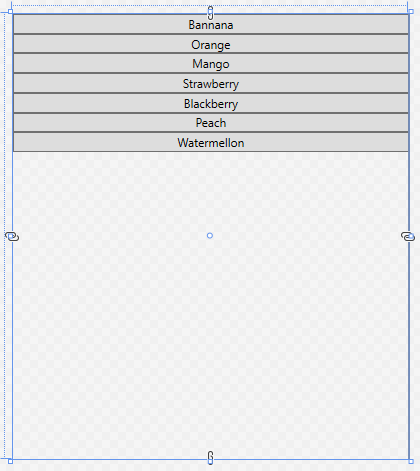
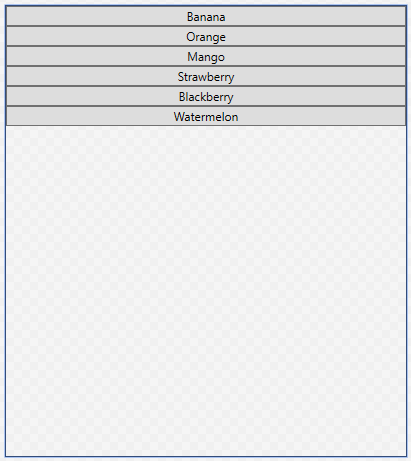
Numerous typo/formatting fixes

Changed region(s): [[0.0, 0.0, 0.9927, 1.0], [0.4964, 0.4859, 0.5255, 0.5163]]

diff --git a/content/2-desktop-development/01-wpf/05-controls.md b/content/2-desktop-development/01-wpf/05-controls.md
@@ -9,7 +9,7 @@ In addition to the layout controls, WPF provides a number of useful (and often f
 
 ### Border 
 
-A [`Border`](https://docs.microsoft.com/en-us/dotnet/api/system.windows.controls.border?view=netcore-3.1) is a control that draws a border around its contents.  The properties specific to a border include `BorderBrush` (which sets the color of the border, see the discussion of brushes on the next page), `BorderThickness` the number of units thick the border should be drawn, `CornerRadius`, which adds rounded corners, and `Padding` which adds space between the border and its contents.
+A [Border](https://docs.microsoft.com/en-us/dotnet/api/system.windows.controls.border?view=netcore-3.1) is a control that draws a border around its contents.  The properties specific to a border include `BorderBrush` (which sets the color of the border, see the discussion of brushes on the next page), `BorderThickness` the number of units thick the border should be drawn, `CornerRadius`, which adds rounded corners, and `Padding` which adds space between the border and its contents.
 
 ```xml
 <Border BorderBrush="Green" BorderThickness="5" CornerRadius="5" Padding="10">
@@ -21,7 +21,7 @@ A [`Border`](https://docs.microsoft.com/en-us/dotnet/api/system.windows.controls
 
 ### Button
 
-A [`Button`](https://docs.microsoft.com/en-us/dotnet/api/system.windows.controls.button?view=netcore-3.1) is a control that draws a button. This button can be interacted with by the mouse, and clicking on it triggers any `Click` event handlers that have been attached to it.  Unlike Windows Forms buttons, it can contain any other WPF control, including images and layouts.  Thus, a button featuring an image might be created with:
+A [Button](https://docs.microsoft.com/en-us/dotnet/api/system.windows.controls.button?view=netcore-3.1) is a control that draws a button. This button can be interacted with by the mouse, and clicking on it triggers any `Click` event handlers that have been attached to it.  Unlike Windows Forms buttons, it can contain any other WPF control, including images and layouts.  Thus, a button featuring an image might be created with:
 
 ```xml
 <Button Click="TriggerBroadcast">
@@ -51,7 +51,7 @@ We'll be discussing events in more detail soon.
 
 ### CheckBox
 
-A [`CheckBox`](https://docs.microsoft.com/en-us/dotnet/api/system.windows.controls.checkbox?view=netcore-3.1) provides a checkable box corresponding to a boolean value.  The `IsChecked` property reflects the checked or unchecked state of the checkbox.  A checkbox also exposes `Checked` and `Unchecked` event handlers.
+A [CheckBox](https://docs.microsoft.com/en-us/dotnet/api/system.windows.controls.checkbox?view=netcore-3.1) provides a checkable box corresponding to a boolean value.  The `IsChecked` property reflects the checked or unchecked state of the checkbox.  A checkbox also exposes `Checked` and `Unchecked` event handlers.
 
 ```xml
 <CheckBox IsChecked="True">
@@ -63,7 +63,7 @@ A [`CheckBox`](https://docs.microsoft.com/en-us/dotnet/api/system.windows.contro
 
 ### ComboBox
 
-A [`ComboBox`](https://docs.microsoft.com/en-us/dotnet/api/system.windows.controls.combobox?view=netcore-3.1) provides a drop-down selection list.  The selected value can be accessed through the `SelectedItem` property, and the `IsEditable` boolean property determines if the combo box can be typed into, or simply selected from.  It exposes a `SelectionChanged` event.  The items in the `ComboBox` can be set declaratively:
+A [ComboBox](https://docs.microsoft.com/en-us/dotnet/api/system.windows.controls.combobox?view=netcore-3.1) provides a drop-down selection list.  The selected value can be accessed through the `SelectedItem` property, and the `IsEditable` boolean property determines if the combo box can be typed into, or simply selected from.  It exposes a `SelectionChanged` event.  The items in the `ComboBox` can be set declaratively:
 
 ```xml
 <ComboBox>
@@ -111,7 +111,7 @@ We could also leverage _data binding_ to bind the item collection dynamically.  
 
 ### Image 
 
-The [`Image`](https://docs.microsoft.com/en-us/dotnet/api/system.windows.controls.image?view=netcore-3.1) control displays an image.  The image to display is determined by the `Source` property. If the image is not exactly the same size as the `<Image>` control, the `Stretch` property determines how to handle this case.  Its possible values are:
+The [Image](https://docs.microsoft.com/en-us/dotnet/api/system.windows.controls.image?view=netcore-3.1) control displays an image.  The image to display is determined by the `Source` property. If the image is not exactly the same size as the `<Image>` control, the `Stretch` property determines how to handle this case.  Its possible values are:
 * `"None"` (the default) - the image is displayed at its original size
 * `"Fill"` - the image is resized to the element's size.  This will result in stretching if the aspect ratios are not the same
 * `"Uniform"` - the image is resized to fit into the element.  If the aspect ratios are different, there will be blank areas in the element (letterboxing)
@@ -121,7 +121,7 @@ The stretch values effects are captured by this graphic:
 
 ![The applied Stretch property](/images/2.1.6.17.png)
 
-The stretching behavior can be further customized by the [`StretchDirection`](https://docs.microsoft.com/en-us/dotnet/api/system.windows.controls.stretchdirection?view=netcore-3.1) property.
+The stretching behavior can be further customized by the [StretchDirection](https://docs.microsoft.com/en-us/dotnet/api/system.windows.controls.stretchdirection?view=netcore-3.1) property.
 
 Images can also be used for `Background` or `Foreground` properties, as discussed on the next page.
 
@@ -152,7 +152,7 @@ Now when the program is running, the user can press `ALT + F` to shift focus to 
 
 ### ListBox 
 
-A [`ListBox`](https://docs.microsoft.com/en-us/dotnet/api/system.windows.controls.listbox?view=netcore-3.1) displays a list of items that can be selected.  The `SelectionMode` property can be set to either `"Single"` or `"Multiple"`, and the `"SelectedItems"` read-only property provides those selected items. The `ItemsSource` property can be set declaratively using `<ListBoxItem>` contents.  It also exposes a `SelectionChanged` event handler:
+A [ListBox](https://docs.microsoft.com/en-us/dotnet/api/system.windows.controls.listbox?view=netcore-3.1) displays a list of items that can be selected.  The `SelectionMode` property can be set to either `"Single"` or `"Multiple"`, and the `"SelectedItems"` read-only property provides those selected items. The `ItemsSource` property can be set declaratively using `<ListBoxItem>` contents.  It also exposes a `SelectionChanged` event handler:
 
 ```xml
 <ListBox>
@@ -181,7 +181,7 @@ A group of [RadioButton](https://docs.microsoft.com/en-us/dotnet/api/system.wind
 
 ### TextBlock
 
-A [`TextBlock`](https://docs.microsoft.com/en-us/dotnet/api/system.windows.controls.textblock?view=netcore-3.1) can be used to display arbitrary text.  It also makes available a `TextChanged` event that is triggered when its text changes.
+A [TextBlock](https://docs.microsoft.com/en-us/dotnet/api/system.windows.controls.textblock?view=netcore-3.1) can be used to display arbitrary text.  It also makes available a `TextChanged` event that is triggered when its text changes.
 
 ```xml
 <TextBlock>Hi, I have something important to say.  I'm a text block.</TextBlock>
@@ -191,7 +191,7 @@ A [`TextBlock`](https://docs.microsoft.com/en-us/dotnet/api/system.windows.contr
 
 ### TextBox
 
-And a [`TextBox`](https://docs.microsoft.com/en-us/dotnet/api/system.windows.controls.textbox?view=netcore-3.1) is an editable text box.  It's text can be accessed through the `Text` property:
+And a [TextBox](https://docs.microsoft.com/en-us/dotnet/api/system.windows.controls.textbox?view=netcore-3.1) is an editable text box.  It's text can be accessed through the `Text` property:
 
 ```xml
 <TextBox Text="And I'm a textbox!"/>
@@ -200,7 +200,7 @@ And a [`TextBox`](https://docs.microsoft.com/en-us/dotnet/api/system.windows.con
 
 ### ToggleButton
 
-Finally, a [`ToggleButton`]() is a button that is either turned on or off.  This can be determined from its `IsChecked` property.  It also has event handlers for `Checked` and `Unchecked` events:
+Finally, a [ToggleButton]() is a button that is either turned on or off.  This can be determined from its `IsChecked` property.  It also has event handlers for `Checked` and `Unchecked` events:
 
 ```xml
 <ToggleButton>On or Off</ToggleButton>

diff --git a/content/2-desktop-development/01-wpf/06-control-properties.md b/content/2-desktop-development/01-wpf/06-control-properties.md
@@ -5,7 +5,7 @@ weight: 60
 date: 2018-08-24T10:53:26-05:00
 ---
 
-All WPF controls (including the layout controls we've already seen) derive from common base classes, i.e. [`UIElement`](https://docs.microsoft.com/en-us/dotnet/api/system.windows.uielement?view=windowsdesktop-6.0) and [`FrameworkElement`](https://docs.microsoft.com/en-us/dotnet/api/system.windows.frameworkelement?view=windowsdesktop-6.0), which means they all inherit common properties.  Some of the most commonly used are described here.
+All WPF controls (including the layout controls we've already seen) derive from common base classes, i.e. [UIElement](https://docs.microsoft.com/en-us/dotnet/api/system.windows.uielement?view=windowsdesktop-6.0) and [FrameworkElement](https://docs.microsoft.com/en-us/dotnet/api/system.windows.frameworkelement?view=windowsdesktop-6.0), which means they all inherit common properties.  Some of the most commonly used are described here.
 
 ### Size & Placement Modifying Properties
 
@@ -137,7 +137,7 @@ As most controls prominently feature text, it is important to discuss the proper
 
 #### Font Family
 
-The [`FontFamily`](https://docs.microsoft.com/en-us/dotnet/api/system.windows.controls.textblock.fontfamily?view=windowsdesktop-6.0) property sets the font used by the control.  This font needs to be installed on the machine.  You can supply a single font, i.e.:
+The [FontFamily](https://docs.microsoft.com/en-us/dotnet/api/system.windows.controls.textblock.fontfamily?view=windowsdesktop-6.0) property sets the font used by the control.  This font needs to be installed on the machine.  You can supply a single font, i.e.:
 
 ```xml
 <TextBlock FontFamily="Arial">
@@ -151,11 +151,11 @@ Or a list of font families to supply fallback options if the requested font is n
 
 #### Font Size 
 
-The [`FontSize`](https://docs.microsoft.com/en-us/dotnet/api/system.windows.controls.textblock.fontsize?view=windowsdesktop-6.0) property determines the size of the font used in the control.
+The [FontSize](https://docs.microsoft.com/en-us/dotnet/api/system.windows.controls.textblock.fontsize?view=windowsdesktop-6.0) property determines the size of the font used in the control.
 
 #### Font Style 
 
-The [`FontStyle`](https://docs.microsoft.com/en-us/dotnet/api/system.windows.controls.textblock.fontstyle?view=windowsdesktop-6.0) property sets the style of the font used. This can include `"Normal"`, `"Italic"`, or `"Oblique"`.  Italic is typically defined in the font itself (and created by the font creator), while Oblique is created from the normal font by applying a mathematical rendering transformation, and can be used for fonts that do not have a defined italic style.  
+The [FontStyle](https://docs.microsoft.com/en-us/dotnet/api/system.windows.controls.textblock.fontstyle?view=windowsdesktop-6.0) property sets the style of the font used. This can include `"Normal"`, `"Italic"`, or `"Oblique"`.  Italic is typically defined in the font itself (and created by the font creator), while Oblique is created from the normal font by applying a mathematical rendering transformation, and can be used for fonts that do not have a defined italic style.  
 
 ![Font Styles](/images/2.1.6.16.png)
 
@@ -255,7 +255,7 @@ Simply put, a brush determines how to paint graphical objects.  This can be as s
 
 #### Solid Color Brushes
 
-What we've been using up to this point have been [`SolidColorBrush`](https://docs.microsoft.com/en-us/dotnet/api/system.windows.media.solidcolorbrush?view=windowsdesktop-6.0) objects.  This is the simplest of the brush classes, and simply paints with a solid color, i.e.:
+What we've been using up to this point have been [SolidColorBrush](https://docs.microsoft.com/en-us/dotnet/api/system.windows.media.solidcolorbrush?view=windowsdesktop-6.0) objects.  This is the simplest of the brush classes, and simply paints with a solid color, i.e.:
 
 ![Solid Color Brush Example](/images/2.1.6.6.png)
 
@@ -280,7 +280,7 @@ The various formats the hex values can be given are detailed [here](https://docs
 
 #### Gradient Brushes
 
-Gradient brushes gradually transition between colors.  There are two kinds of gradient brushes in WPF: with a [`LinearGradientBrush`](https://docs.microsoft.com/en-us/dotnet/api/system.windows.media.lineargradientbrush?view=windowsdesktop-6.0) the brush gradually changes along a line.  With a [`RadialGradientBrush`](https://docs.microsoft.com/en-us/dotnet/api/system.windows.media.radialgradientbrush?view=windowsdesktop-6.0), the color changes radially from a center point.
+Gradient brushes gradually transition between colors.  There are two kinds of gradient brushes in WPF: with a [LinearGradientBrush](https://docs.microsoft.com/en-us/dotnet/api/system.windows.media.lineargradientbrush?view=windowsdesktop-6.0) the brush gradually changes along a line.  With a [RadialGradientBrush](https://docs.microsoft.com/en-us/dotnet/api/system.windows.media.radialgradientbrush?view=windowsdesktop-6.0), the color changes radially from a center point.
 
 In both cases, the gradient is defined in terms of `<GradientStops>` - a distance along the line (or from the center) where the expected color value is defined.  In the spaces between gradient stops, the color value is interpolated between the two stops on either side of the point.  The gradient stop needs both an `Offset` value (a double indicating the percentage of how far along the line or from the center this stop falls, between 0.0 and 1.0) and a `Color` value (which can be defined as with solid color brushes).
 
@@ -307,7 +307,7 @@ Produces this rainbow gradient:
 
 ![Rainbow Linear Gradient Example](/images/2.1.6.8.png)
 
-Further, the line along with the linear gradient is created is defined by the `StartPoint` and `EndPoint` properties of the `<LinearGradientBrush>`.  These points are relative to the area the brush is covering (i.e. the space occupied by the element), and fall in the range of [0.0 .. 1.0].  The default (as seen above) is a diagonal line from the upper left corner (0,0) to the lower right corner (1.0, 1.0).
+Further, the line along which the linear gradient is created is defined by the `StartPoint` and `EndPoint` properties of the `<LinearGradientBrush>`.  These points are relative to the area the brush is covering (i.e. the space occupied by the element), and fall in the range of [0.0 .. 1.0].  The default (as seen above) is a diagonal line from the upper left corner (0,0) to the lower right corner (1.0, 1.0).
 
 To make the above gradient fall in the center half of the element, and be horizontal, we could tweak the gradient definition:
 
@@ -394,7 +394,7 @@ And of course, we can use a gradient for a `Foreground` property as well:
 
 #### Image Brushes
 
-To draw a saved image, we use an [`ImageBrush`](https://docs.microsoft.com/en-us/dotnet/api/system.windows.media.imagebrush?view=windowsdesktop-6.0), setting its `ImageSource` property to the image we want to use.  In XAML, that can be as simple as:
+To draw a saved image, we use an [ImageBrush](https://docs.microsoft.com/en-us/dotnet/api/system.windows.media.imagebrush?view=windowsdesktop-6.0), setting its `ImageSource` property to the image we want to use.  In XAML, that can be as simple as:
 
 ```xml
 <Button Margin="40" Foreground="White" FontSize="30">
@@ -435,7 +435,7 @@ We can apply image brushes to any WPF control, allowing for some interesting lay
 
 ![Image Brush Layering Example](/images/2.1.6.14.png)
 
-You probably notice that the dish image on the button is distorted.  We can correct this by changing the [`Stretch`](https://docs.microsoft.com/en-us/dotnet/desktop/wpf/graphics-multimedia/tilebrush-overview?view=netframeworkdesktop-4.8#the-base-tile) property.  The possible values are: `"None"`, `"Fill"`, `"Uniform"`, and `"UniformToFill"`.  This graphic from the documentation visual shows these properties:
+You probably notice that the dish image on the button is distorted.  We can correct this by changing the [Stretch](https://docs.microsoft.com/en-us/dotnet/desktop/wpf/graphics-multimedia/tilebrush-overview?view=netframeworkdesktop-4.8#the-base-tile) property.  The possible values are: `"None"`, `"Fill"`, `"Uniform"`, and `"UniformToFill"`.  This graphic from the documentation visual shows these properties:
 
 ![The applied Stretch property](/images/2.1.6.17.png)
 

diff --git a/content/2-desktop-development/01-wpf/04-layouts.md b/content/2-desktop-development/01-wpf/04-layouts.md
@@ -11,7 +11,7 @@ Let's examine each of five layouts in turn:
 
 ## The Grid
 
-The default layout is the [`Grid`](https://docs.microsoft.com/en-us/dotnet/api/system.windows.controls.grid?view=netcore-3.1), which lays out its children elements in a grid pattern. A grid is composed of columns and rows, the number and characteristics of which are defined by the grid's `ColumnDefinitions` and `RowDefinitions` properties.  These consist of a collection of `ColumnDefinition` and `<RowDefinition/>` elements.  Each `<ColumnDefinition/>` is typically given a `Width` property value, while each `<RowDefinition/>` is given a `Height` property value.  
+The default layout is the [Grid](https://docs.microsoft.com/en-us/dotnet/api/system.windows.controls.grid?view=netcore-3.1), which lays out its children elements in a grid pattern. A `<Grid>` is composed of columns and rows, the number and characteristics of which are defined by the grid's `ColumnDefinitions` and `RowDefinitions` properties.  These consist of a collection of `ColumnDefinition` and `<RowDefinition/>` elements.  Each `<ColumnDefinition/>` is typically given a `Width` property value, while each `<RowDefinition/>` is given a `Height` property value.  
 
 Thus, you might expect the code:
 
@@ -69,17 +69,17 @@ Which would create:
 Note too that we use the properties `Grid.Column` and `Grid.Row` in the `<TextBlock>` elements to assign them to cells in the grid.  The row and column indices start at 0 in the upper-left corner of the grid, and increase to the right and down.
 
 ## The StackPanel
-The [`StackPanel`](https://docs.microsoft.com/en-us/dotnet/api/system.windows.controls.stackpanel?view=netcore-3.1) arranges content into a single row or column (defaults to vertical).  For example, this XAML:
+The [StackPanel](https://docs.microsoft.com/en-us/dotnet/api/system.windows.controls.stackpanel?view=netcore-3.1) arranges content into a single row or column (defaults to vertical).  For example, this XAML:
 
 ```xml
 <StackPanel>
-    <Button>Bannana</Button>
+    <Button>Banana</Button>
     <Button>Orange</Button>
     <Button>Mango</Button>
     <Button>Strawberry</Button>
     <Button>Blackberry</Button>
     <Button>Peach</Button>
-    <Button>Watermellon</Button>
+    <Button>Watermelon</Button>
 </StackPanel>
 ```
 
@@ -89,11 +89,11 @@ Creates this layout:
 
 ## The WrapPanel
 
-The [`WrapPanel`](https://docs.microsoft.com/en-us/dotnet/api/system.windows.controls.wrappanel?view=netcore-3.1) layout is like the `<StackPanel>`, with the additional caveat that if there is not enough space for its contents, it will wrap to an additional line. For example, this XAML code:
+The [WrapPanel](https://docs.microsoft.com/en-us/dotnet/api/system.windows.controls.wrappanel?view=netcore-3.1) layout is like the `<StackPanel>`, with the additional caveat that if there is not enough space for its contents, it will wrap to an additional line. For example, this XAML code:
 
 ```xml
 <WrapPanel>
-    <Button>Bannana</Button>
+    <Button>Banana</Button>
     <Button>Orange</Button>
     <Button>Mango</Button>
     <Button>Strawberry</Button>
@@ -113,7 +113,7 @@ And this one when things get tighter:
 
 ## The DockPanel
 
-The [`DockPanel`](https://docs.microsoft.com/en-us/dotnet/api/system.windows.controls.dockpanel?view=netcore-3.1) layout should be familiar to you - it's what Visual Studio uses.  Its content items can be 'docked' to one of the sides, as defined by the `Dock` enum: `Bottom`, `Top`, `Left`, or `Right` by setting the `DockPanel.Dock` property on that item. The last item specified will also fill the central space.  If more than one child is specified for a particular side, it will be stacked with that side.
+The [DockPanel](https://docs.microsoft.com/en-us/dotnet/api/system.windows.controls.dockpanel?view=netcore-3.1) layout should be familiar to you - it's what Visual Studio uses.  Its content items can be 'docked' to one of the sides, as defined by the `Dock` enum: `Bottom`, `Top`, `Left`, or `Right` by setting the `DockPanel.Dock` property on that item. The last item specified will also fill the central space.  If more than one child is specified for a particular side, it will be stacked with that side.
 
 Thus, this XAML:
 
@@ -133,7 +133,7 @@ Generates this layout:
 
 ## The Canvas
 
-Finally, the [`Canvas`](https://docs.microsoft.com/en-us/dotnet/api/system.windows.controls.canvas?view=netcore-3.1) lays its content out strictly by their position within the `<Canvas>`, much like Windows Forms. This approach provides precise placement and size control, at the expense of the ability to automatically adjust to other screen resolutions.  For example, the code:
+Finally, the [Canvas](https://docs.microsoft.com/en-us/dotnet/api/system.windows.controls.canvas?view=netcore-3.1) lays its content out strictly by their position within the `<Canvas>`, much like Windows Forms. This approach provides precise placement and size control, at the expense of the ability to automatically adjust to other screen resolutions.  For example, the code:
 
 ```xml
 <Canvas>

diff --git a/content/2-desktop-development/01-wpf/02-wpf-features.md b/content/2-desktop-development/01-wpf/02-wpf-features.md
@@ -37,7 +37,7 @@ No doubt you are used to having a wide variety of screen resolutions available a
 
 Windows Forms was introduced in the early 2000's, at a time where the most popular screen resolution in the United States was transitioning from SVGA to XGA, and screen resolutions (especially for business computers running Windows) had remained remarkably consistent for long periods.  Moreover, these resolutions were all using the 4:3 aspect ratio (the ratio of width to height of the screen).  Hence, the developers of Windows forms did not consider the need to support vastly different screen resolutions and aspect ratios.  Contrast that with trends since that time:
 
-![Screen Resolutions in US from 2009-2020](/static "images/2.1.2.1.png)
+![Screen Resolutions in US from 2009-2020](/images/2.1.2.1.png)
 
 There is no longer a clearly dominating resolution, nor even an aspect ratio! Thus, it has become increasingly important for Windows applications to adapt to different screen resolutions.  Windows Forms does not do this easily - each element in a Windows Forms application has a statically defined width and height, as well as its position in the window.  Altering these values in response to different screen resolution requires significant calculations to resize and reposition the elements, and the code to perform these calculations must be written by the programmer.
 
